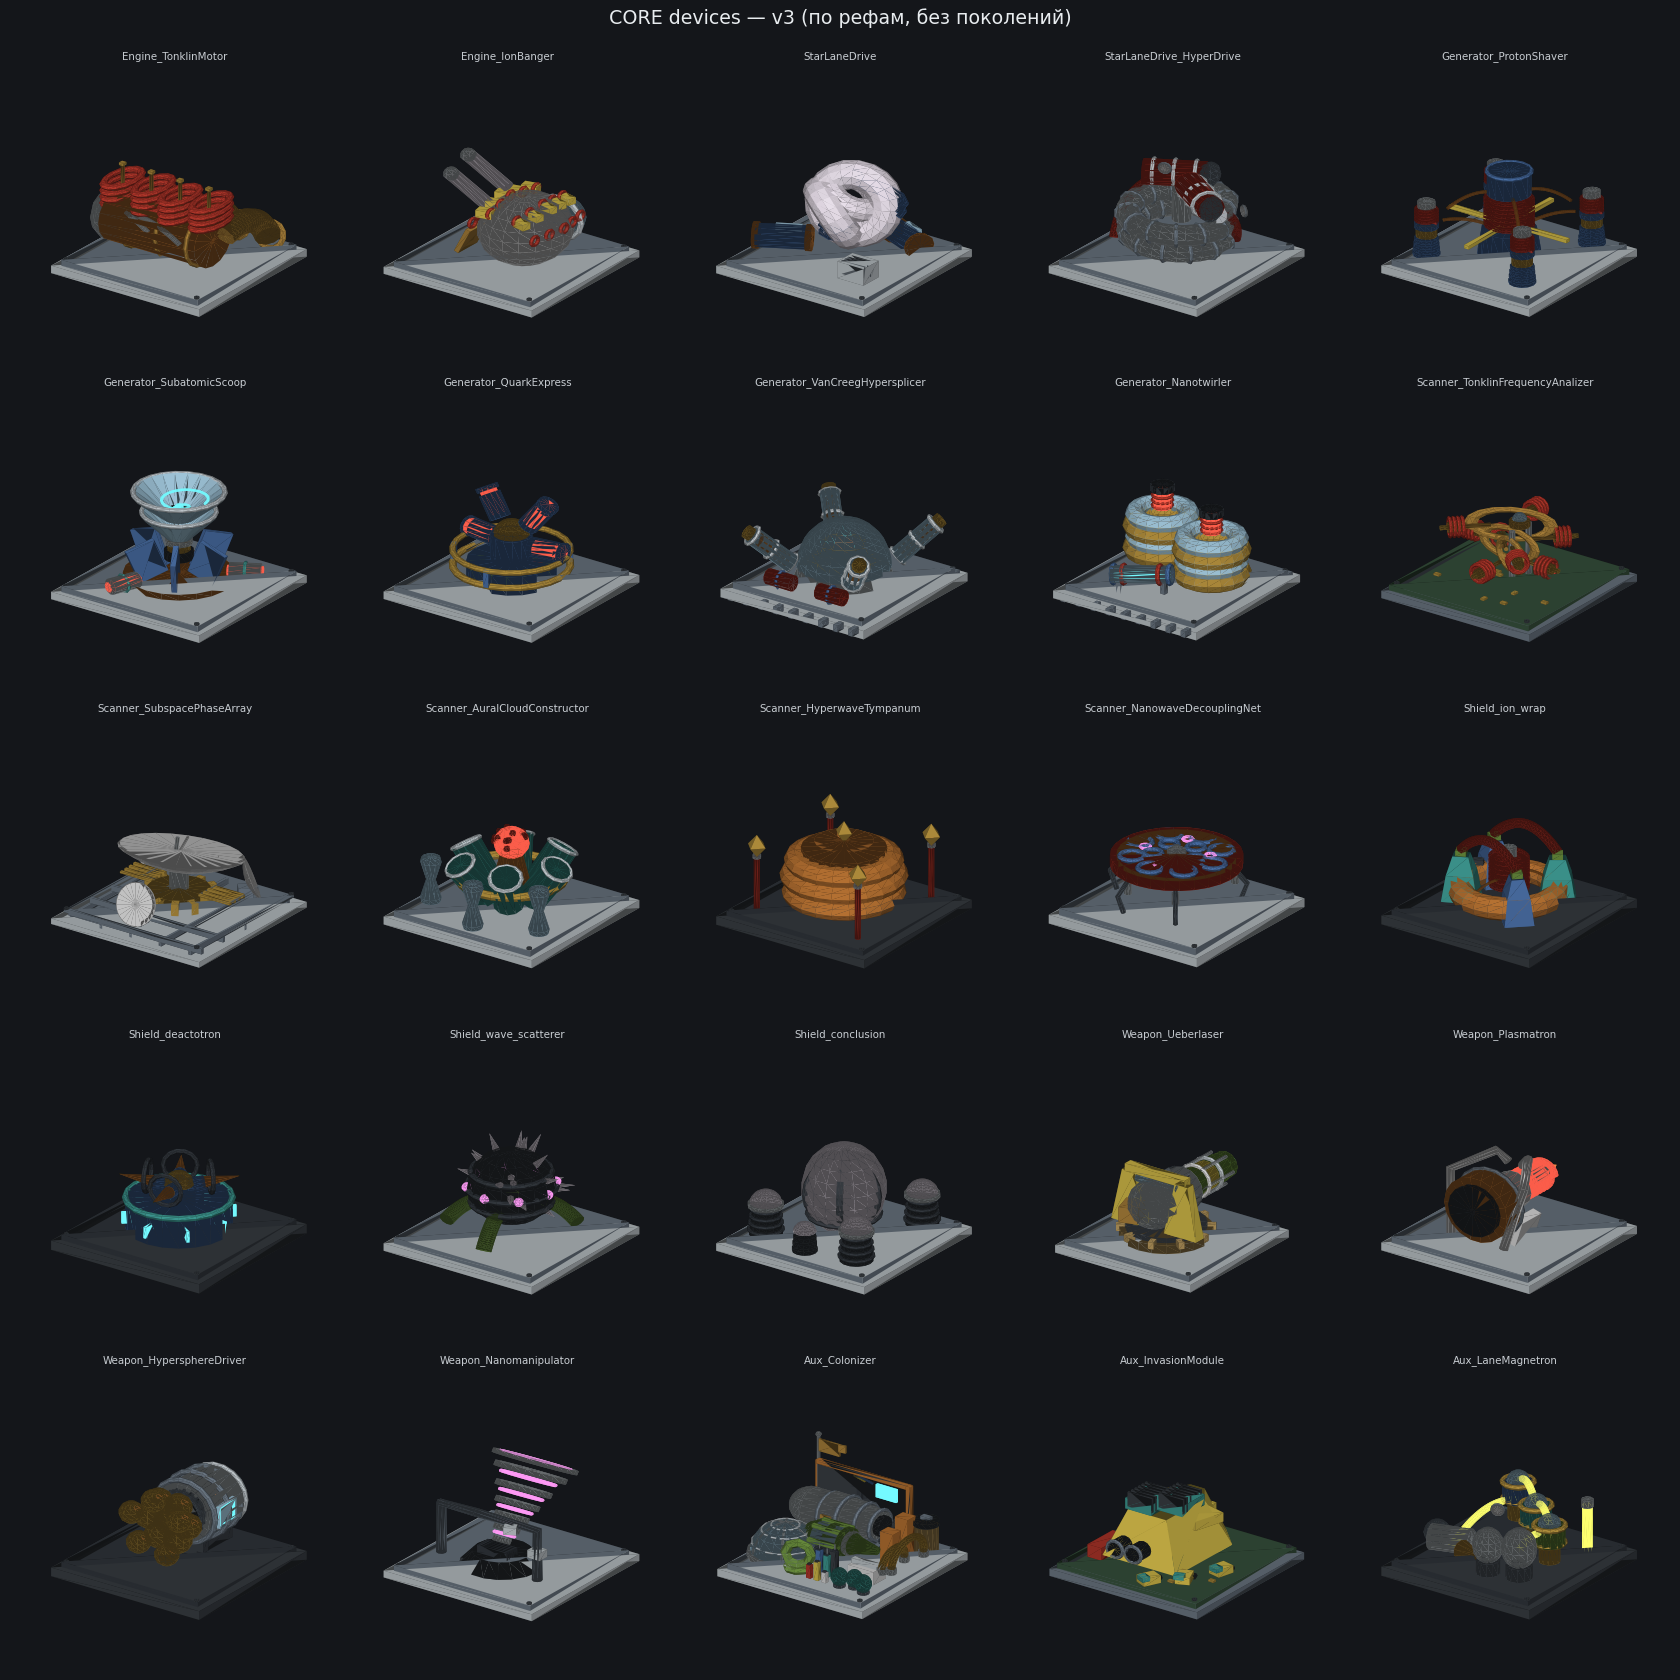
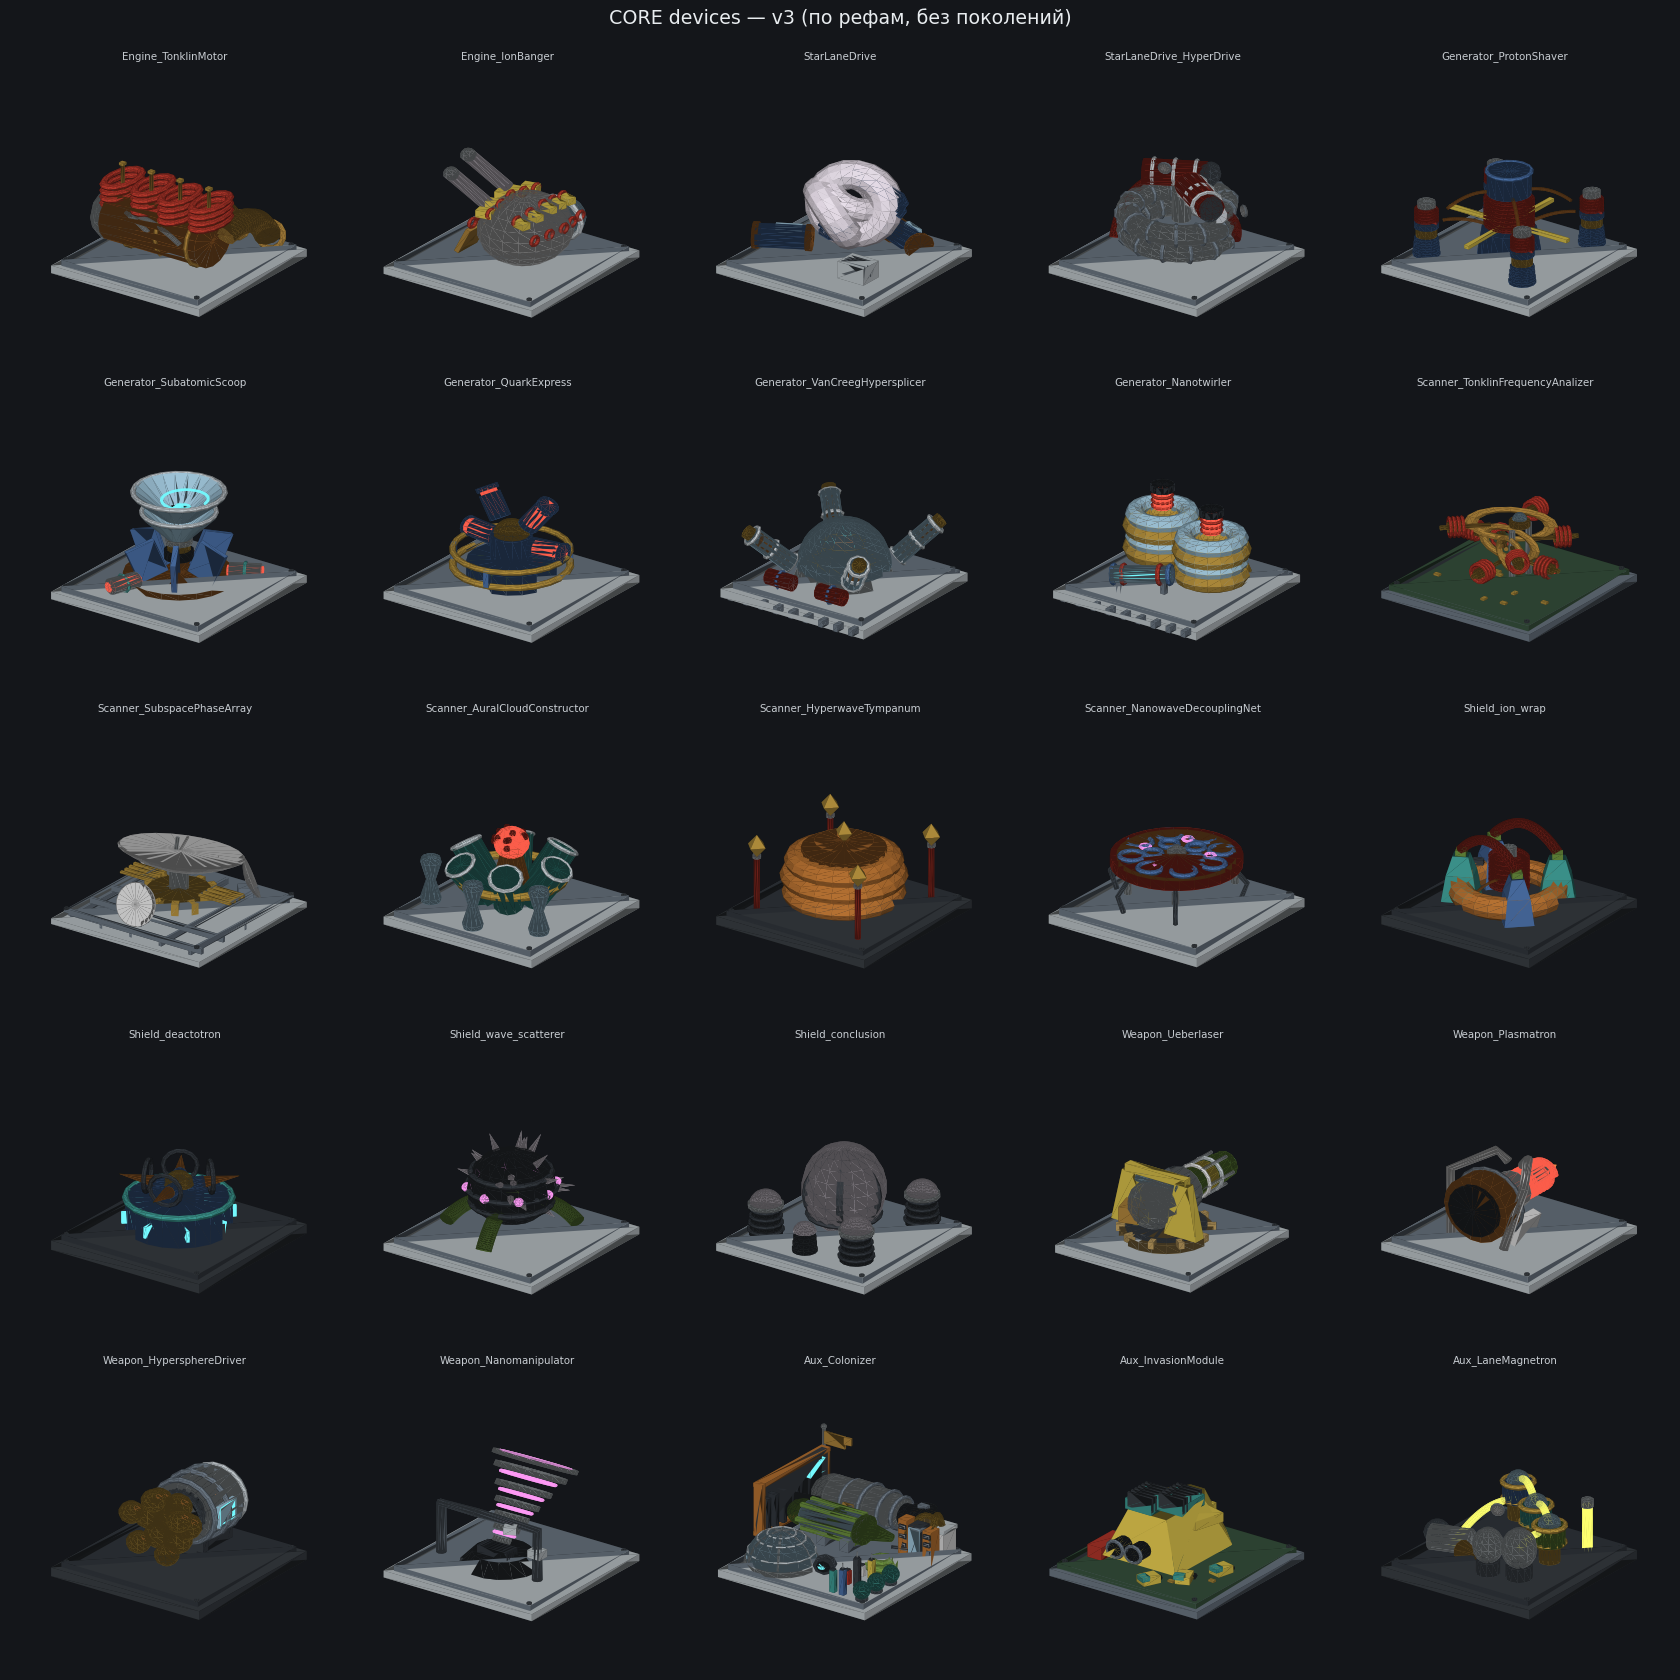
Colonizer: полная перекомпоновка по граням подложки
По детальным замечаниям ревью (грани a/b/c/d плиты):
- panel-a перенесена на грань d (была вдоль c), удлинена и переориентирована
  вертикально; drum-a и engine-a теперь оба торцом упираются в её лицевую
  сторону, ориентация обоих агрегатов не менялась
- drum-a: бок вплотную к грани c (было в глубине сцены)
- engine-a: остаётся параллелен drum-a, бок примыкает к drum-a; секция-клетка
  удлинена для более выразительного силуэта
- dome-a: максимально сдвинут к грани a (почти впритык к краю)
- gate-a: следует за dome-a
- tank-a: у второго (правого) торца drum-a
- rack-a/шкаф-с-полками/rack-b: компактная группа вдоль оси a (ранее
  расчёт неверно уводил её за грань b — плита ограничена ±0.85, группа
  вылезала до x=0.91; пересчитана компактно, с короткими кабелями-
  перемычками к tank-a и торцу engine-a вместо жёсткого стыка (иначе
  сумма радиусов drum/engine делает группу неизбежно диагональной)
- clamp-a: перенесён на грань b рядом с tank-a, переведён из "лежит
  плашмя" в "стоит на длинном ребре" (box переориентирован)
- hose-a/hose-b: выходят из clamp-a и огибают rack-группу дугой сверху
- egg-a/b/c: угол граней a-b, далее вдоль грани b
- mini-a..f: второй ряд за яйцами вдоль грани b (интерьер)
- ring-a: теперь лежит плашмя (было на ребре), сдвинут за ряд mini
- флаг: угол граней c-d (следует за новым положением panel-a)

Также исправлен побочный овершут: барабан drum-a торцевым кольцом
(радиус 0.23) чуть выступал за грань c — скорректирован отступ.

Changed region(s): [[0.4333, 0.8357, 0.5881, 0.9595]]

diff --git a/docs/asset-bible/tools/device_recipes_core.py b/docs/asset-bible/tools/device_recipes_core.py
@@ -1016,146 +1016,241 @@ def weapon_nanomanipulator(seed=0):
 # ================================================================== AUX
 
 def aux_colonizer(seed=0):
-    """Колонизатор-диорама (реф Aux_Colonizer). Два параллельных агрегата
-    вдоль грани плиты (ось X): зелёная машина с клеткой и соплом + отдельный
-    серебристый сегментный барабан за ней; сзади панель-радиатор в медной
-    раме; справа стойки-серверы, бак и белый зажим COLO-LINEY с арками
-    золотых рукавов; слева геокупол со шлюзом; спереди упорядоченный ряд
-    мини-приборов, кольцо-«гайка» и три яйца-бака; флаг."""
+    """Колонизатор-диорама (реф Aux_Colonizer), скомпонована по грани плиты:
+    panel-a вдоль грани d; drum-a и engine-a — параллельные агрегаты вдоль
+    оси X, торцами упёртые в panel-a, drum-a боком у грани c, engine-a
+    боком у drum-a; dome-a у грани a; tank-a у второго торца drum-a;
+    rack-a/шкаф/rack-b — группа вдоль оси a между tank-a и торцом engine-a;
+    clamp-a стоит на ребре вдоль грани b рядом с tank-a, из него выходят
+    hose-a/hose-b, огибающие rack-группу; egg-a/b/c в углу a-b вдоль грани
+    b, mini-a..f вторым рядом за ними, ring-a (лежит плашмя) — следом за
+    mini-рядом; флаг в углу c-d."""
     P = []
     Z = PLATE_TOP
+    half = 0.85
 
     def xcyl(vf, x, y, z, tag):
         P.append(_p(tf(tf(vf, ry=PI / 2), t=(x, y, z)), tag))
 
-    # --- зелёная машина: ось X, нос (конус) в +X
-    gy, gz = -0.12, Z + 0.26
-    xcyl(cyl(0.09, 0.2, 12, r2=0.045), 0.4, gy, gz, 'green')
-    xcyl(cyl(0.125, 0.09, 12, r2=0.085), 0.26, gy, gz, 'green')
-    xcyl(cyl(0.14, 0.05, 12), 0.19, gy, gz, 'silver')
-    # стеклянная секция в зелёной клетке
-    xcyl(cyl(0.15, 0.34, 14), -0.02, gy, gz, 'glass')
-    xcyl(cyl(0.095, 0.3, 10), -0.02, gy, gz, 'detail')
-    for xx in (-0.18, -0.02, 0.14):
-        xcyl(cyl(0.17, 0.055, 14), xx, gy, gz, 'green')
-    for roll in np.linspace(0, 2 * PI, 6, endpoint=False):
-        P.append(_p(tf(box(0.36, 0.042, 0.042),
-                       t=(-0.02, gy + 0.163 * math.cos(roll),
-                          gz + 0.163 * math.sin(roll))), 'green'))
-    P.append(_p(tf(tf(dome(0.15, 12, 6), ry=-PI / 2), t=(-0.2, gy, gz)),
-                'green'))
-    # ложементы
-    for xx in (-0.12, 0.14):
-        P.append(_p(tf(box(0.1, 0.26, 0.14), t=(xx, gy, Z + 0.07)), 'plat'))
-
-    # --- серебристый сегментный барабан: параллельно, за зелёной машиной
-    sy, sz = 0.26, Z + 0.34
-    P.append(_p(tf(tf(dome(0.21, 14, 7), ry=-PI / 2), t=(-0.56, sy, sz)),
-                'silver'))
-    for k, (xx, rr, ww) in enumerate(((-0.44, 0.21, 0.2), (-0.22, 0.23, 0.2),
-                                      (0.0, 0.21, 0.18), (0.18, 0.18, 0.14))):
-        xcyl(cyl(rr, ww, 16), xx, sy, sz, 'silver')
-        xcyl(torus(rr, 0.02, 16, 6), xx + ww / 2, sy, sz, 'plat')
-    xcyl(cyl(0.12, 0.06, 12), 0.28, sy, sz, 'graph')
-    # панелька-люк на барабане
-    P.append(_p(tf(box(0.12, 0.02, 0.1), t=(-0.22, sy - 0.23, sz + 0.02)),
-                'coil2'))
-    for xx in (-0.4, 0.04):
-        P.append(_p(tf(box(0.12, 0.3, 0.18), t=(xx, sy, Z + 0.09)), 'plat'))
-
-    # --- тёмная панель-радиатор в медной раме (сзади, вдоль X)
-    px, py = -0.15, 0.56
-    P.append(_p(tf(box(1.05, 0.07, 0.62), t=(px, py, Z + 0.42)), 'graph'))
+    # --- panel-a: вдоль грани d (левая грань, тянется по Y)
+    panel_thick = 0.07
+    px = -half + panel_thick / 2          # -0.815
+    panel_inner_x = -half + panel_thick   # -0.78 (лицевая сторона панели)
+    py = 0.28
+    plen = 1.05
+    P.append(_p(tf(box(panel_thick, plen, 0.62), t=(px, py, Z + 0.42)),
+                'graph'))
     for dz in (0.72, 0.12):
-        P.append(_p(tf(box(1.09, 0.05, 0.05), t=(px, py, Z + dz)), 'copper'))
+        P.append(_p(tf(box(0.1, plen + 0.04, 0.05), t=(px, py, Z + dz)),
+                    'copper'))
     for sgn in (-1, 1):
-        P.append(_p(tf(box(0.05, 0.05, 0.64), t=(px + sgn * 0.53, py,
-                                                 Z + 0.42)), 'copper'))
+        P.append(_p(tf(box(0.1, 0.05, 0.64),
+                       t=(px, py + sgn * (plen / 2 - 0.01), Z + 0.42)),
+                    'copper'))
     for k in range(8):
-        P.append(_p(tf(box(0.05, 0.09, 0.4),
-                       t=(px - 0.42 + k * 0.075, py + 0.02, Z + 0.34)),
-                    'dark'))
-    P.append(_p(tf(box(0.24, 0.03, 0.16), t=(px + 0.3, py - 0.05, Z + 0.6)),
-                'bglow'))
+        P.append(_p(tf(box(0.09, 0.05, 0.4),
+                       t=(px + 0.02, py - plen / 2 + 0.08 + k * (plen - 0.16)
+                          / 7, Z + 0.34)), 'dark'))
+    P.append(_p(tf(box(0.05, 0.24, 0.16),
+                   t=(px + 0.06, py + plen / 2 - 0.22, Z + 0.6)), 'bglow'))
     for k, tag in enumerate(('teal', 'yellow', 'blue')):
-        P.append(_p(arc_pipe((px - 0.3 + k * 0.09, py - 0.04, Z + 0.7),
-                             (px - 0.05 + k * 0.09, py - 0.04, Z + 0.66),
-                             (0, -0.03, 0.05), 0.012), tag))
+        yy = py + plen / 2 - 0.3 + k * 0.09
+        P.append(_p(arc_pipe((px, yy, Z + 0.7), (px, yy, Z + 0.66),
+                             (0.05, 0, 0.05), 0.012), tag))
 
-    # --- геокупол со шлюзом (слева-спереди)
-    dx, dy = -0.45, -0.3
-    P.append(_p(tf(cyl(0.37, 0.06, 18), t=(dx, dy, Z + 0.03)), 'silver'))
-    g, fr = _geodome_dev(0.34)
-    P.append(_p(tf(g, t=(dx, dy, Z + 0.06)), 'glass'))
-    P.append(_p(tf(fr, t=(dx, dy, Z + 0.06)), 'silver'))
-    # восьмигранный модуль-шлюз правее купола (как в рефе)
-    P.append(_p(tf(tf(cyl(0.11, 0.08, 8), rx=PI / 2),
-                   t=(-0.02, -0.3, Z + 0.14), rz=PI / 8), 'plat'))
-    P.append(_p(tf(tf(cyl(0.07, 0.1, 8), rx=PI / 2),
-                   t=(-0.02, -0.31, Z + 0.14), rz=PI / 8), 'graph'))
-    P.append(_p(tf(tf(cyl(0.04, 0.03, 8), rx=PI / 2),
-                   t=(-0.02, -0.35, Z + 0.14), rz=PI / 8), 'bglow'))
+    # --- drum-a: параллельно оси X, торцом (dome) к panel-a, боком к грани c
+    drum_r = 0.21
+    drum_y = half - 0.23 - 0.02             # 0.60 — у грани c (с учётом макс. радиуса торцевых колец 0.23)
+    drum_dome_x = panel_inner_x + drum_r   # торец у панели
+    # исходные относительные смещения (от dome-центра исходного рецепта)
+    drum_rel = (0.0, 0.12, 0.34, 0.56, 0.72, 0.75)
+    d0 = drum_dome_x
+    P.append(_p(tf(tf(dome(0.21, 14, 7), ry=-PI / 2),
+                   t=(d0 + drum_rel[0], drum_y, Z + 0.34)), 'silver'))
+    drum_segs = ((0.12, 0.21, 0.2), (0.34, 0.23, 0.2), (0.56, 0.21, 0.18),
+                (0.72, 0.18, 0.14))
+    for (rel, rr, ww) in drum_segs:
+        xcyl(cyl(rr, ww, 16), d0 + rel, drum_y, Z + 0.34, 'silver')
+        xcyl(torus(rr, 0.02, 16, 6), d0 + rel + ww / 2, drum_y, Z + 0.34,
+             'plat')
+    drum_end_x = d0 + 0.72 + 0.14 / 2      # правый торец барабана
+    xcyl(cyl(0.12, 0.06, 12), drum_end_x + 0.06, drum_y, Z + 0.34, 'graph')
+    drum_end_x += 0.12
+    # панелька-люк на барабане
+    P.append(_p(tf(box(0.12, 0.02, 0.1),
+                   t=(d0 + 0.34, drum_y - 0.23, Z + 0.36)), 'coil2'))
+    for rel in (0.0, 0.56):
+        P.append(_p(tf(box(0.12, 0.3, 0.18),
+                       t=(d0 + rel, drum_y, Z + 0.09)), 'plat'))
 
-    # --- стойки-серверы (справа, вдоль правой грани) + бак
-    for (bx, by, hh) in ((0.52, 0.3, 0.52), (0.52, 0.06, 0.44)):
-        P.append(_p(tf(box(0.15, 0.13, hh), t=(bx, by, Z + hh / 2)), 'copper'))
-        for j in range(4):
-            P.append(_p(tf(box(0.11, 0.02, 0.05),
-                           t=(bx - 0.075, by, Z + 0.08 + j * hh / 4.5)),
-                        'dark'))
-            P.append(_p(tf(box(0.1, 0.015, 0.03),
-                           t=(bx - 0.078, by, Z + 0.08 + j * hh / 4.5)),
-                        'white'))
-    # бак с карбоновой крышкой
-    P.append(_p(tf(cyl(0.12, 0.42, 14), t=(0.68, 0.42, Z + 0.21)), 'wood'))
-    P.append(_p(tf(cyl(0.13, 0.06, 14), t=(0.68, 0.42, Z + 0.45)), 'graph'))
-    P.append(_p(tf(box(0.1, 0.06, 0.04), t=(0.68, 0.42, Z + 0.5)), 'plat'))
+    # --- engine-a: параллельно, торцом (dome) к panel-a, боком к drum-a
+    engine_dome_r = 0.15
+    engine_r = 0.17
+    engine_y = drum_y - drum_r - engine_r - 0.02   # 0.22 — сторона к drum
+    engine_dome_x = panel_inner_x + engine_dome_r
+    e0 = engine_dome_x
+    # исходные относительные смещения от dome-центра (было xx=-0.2)
+    def erel(orig_xx):
+        return orig_xx - (-0.2)
 
-    # --- белый зажим COLO-LINEY и арки рукавов (в плоскости правой грани)
-    P.append(_p(tf(box(0.3, 0.2, 0.16), t=(0.52, -0.32, Z + 0.1)), 'white'))
-    P.append(_p(tf(box(0.32, 0.06, 0.06), t=(0.52, -0.32, Z + 0.2)),
+    P.append(_p(tf(tf(dome(0.15, 12, 6), ry=-PI / 2),
+                   t=(e0, engine_y, Z + 0.26)), 'green'))
+    # стеклянная секция в зелёной клетке, удлинена для симметрии с drum-a
+    cage_len = 0.62
+    xcyl(cyl(0.15, cage_len, 14), e0 + 0.05 + cage_len / 2, engine_y,
+         Z + 0.26, 'glass')
+    xcyl(cyl(0.095, cage_len - 0.04, 10), e0 + 0.05 + cage_len / 2, engine_y,
+         Z + 0.26, 'detail')
+    for f in (0.06, 0.36, 0.66):
+        xcyl(cyl(0.17, 0.055, 14), e0 + 0.05 + f, engine_y, Z + 0.26,
+             'green')
+    for roll in np.linspace(0, 2 * PI, 6, endpoint=False):
+        P.append(_p(tf(box(cage_len + 0.02, 0.042, 0.042),
+                       t=(e0 + 0.05 + cage_len / 2,
+                          engine_y + 0.163 * math.cos(roll),
+                          Z + 0.26 + 0.163 * math.sin(roll))), 'green'))
+    cage_end_x = e0 + 0.05 + cage_len
+    # серебристый воротник + нос
+    xcyl(cyl(0.14, 0.05, 12), cage_end_x + 0.025, engine_y, Z + 0.26,
+         'silver')
+    xcyl(cyl(0.125, 0.09, 12, r2=0.085), cage_end_x + 0.115, engine_y,
+         Z + 0.26, 'green')
+    nose_c = cage_end_x + 0.16 + 0.1
+    xcyl(cyl(0.09, 0.2, 12, r2=0.045), nose_c, engine_y, Z + 0.26, 'green')
+    engine_end_x = nose_c + 0.1            # кончик носа
+    # ложементы
+    for xx in (e0 + 0.3, cage_end_x - 0.1):
+        P.append(_p(tf(box(0.1, 0.26, 0.14), t=(xx, engine_y, Z + 0.07)),
+                    'plat'))
+
+    # --- геокупол со шлюзом: максимально к грани a
+    dome_r = 0.34
+    ddx, ddy = -0.38, -half + dome_r + 0.03   # к грани a
+    P.append(_p(tf(cyl(dome_r * 1.05, 0.06, 18), t=(ddx, ddy, Z + 0.03)),
                 'silver'))
-    for (hx, cy, R, z0) in ((0.82, -0.08, 0.26, 0.24), (0.68, -0.12, 0.18,
-                                                        0.18)):
+    g, fr = _geodome_dev(dome_r)
+    P.append(_p(tf(g, t=(ddx, ddy, Z + 0.06)), 'glass'))
+    P.append(_p(tf(fr, t=(ddx, ddy, Z + 0.06)), 'silver'))
+    # --- gate-a: восьмигранный модуль-шлюз правее купола
+    gx, gy_ = ddx + dome_r + 0.16, ddy
+    P.append(_p(tf(tf(cyl(0.11, 0.08, 8), rx=PI / 2), t=(gx, gy_, Z + 0.14),
+                   rz=PI / 8), 'plat'))
+    P.append(_p(tf(tf(cyl(0.07, 0.1, 8), rx=PI / 2),
+                   t=(gx, gy_ - 0.01, Z + 0.14), rz=PI / 8), 'graph'))
+    P.append(_p(tf(tf(cyl(0.04, 0.03, 8), rx=PI / 2),
+                   t=(gx, gy_ - 0.05, Z + 0.14), rz=PI / 8), 'bglow'))
+
+    # --- tank-a: у второго (правого) торца drum-a
+    tank_r = 0.12
+    tank_x = drum_end_x + tank_r + 0.02
+    tank_y = drum_y
+    P.append(_p(tf(cyl(tank_r, 0.42, 14), t=(tank_x, tank_y, Z + 0.21)),
+                'wood'))
+    P.append(_p(tf(cyl(tank_r + 0.01, 0.06, 14), t=(tank_x, tank_y, Z + 0.45)),
+                'graph'))
+    P.append(_p(tf(box(0.1, 0.06, 0.04), t=(tank_x, tank_y, Z + 0.5)),
+                'plat'))
+
+    # --- rack-a / шкаф / rack-b: компактная группа, оси a (X), у грани b;
+    # связана короткими кабелями с tank-a и торцом engine-a
+    rack_hw, cab_hw = 0.05, 0.07
+    rack_row_y = engine_y + 0.1
+    rack_a_x = 0.5
+    cab_x = rack_a_x + rack_hw + cab_hw + 0.02
+    rack_b_x = cab_x + cab_hw + rack_hw + 0.02   # <= half(0.85) - rack_hw
+
+    def rack(cx, cy, hh):
+        P.append(_p(tf(box(rack_hw * 2, 0.13, hh), t=(cx, cy, Z + hh / 2)),
+                    'copper'))
+        for j in range(4):
+            P.append(_p(tf(box(rack_hw * 1.5, 0.02, 0.05),
+                           t=(cx - rack_hw * 0.05, cy - 0.065,
+                              Z + 0.08 + j * hh / 4.5)), 'dark'))
+            P.append(_p(tf(box(rack_hw * 1.3, 0.015, 0.03),
+                           t=(cx - rack_hw * 0.08, cy - 0.068,
+                              Z + 0.08 + j * hh / 4.5)), 'white'))
+
+    rack(rack_a_x, rack_row_y, 0.5)
+    rack(rack_b_x, rack_row_y, 0.44)
+    # шкаф с полками за матовым (полупрозрачным) стеклом
+    cab_h = 0.46
+    P.append(_p(tf(box(cab_hw * 2, 0.15, cab_h), t=(cab_x, rack_row_y, Z +
+                                                     cab_h / 2)), 'dark'))
+    P.append(_p(tf(box(cab_hw * 1.8, 0.02, cab_h * 0.9),
+                   t=(cab_x, rack_row_y - 0.075, Z + cab_h / 2)), 'glass'))
+    for j in range(3):
+        P.append(_p(tf(box(cab_hw * 1.6, 0.1, 0.02),
+                       t=(cab_x, rack_row_y, Z + 0.1 + j * cab_h / 3)),
+                    'plat'))
+    # короткие кабели-перемычки: tank-a -> rack-a, торец engine-a -> rack-b
+    P.append(_p(tube(np.array([(tank_x + tank_r * 0.6, tank_y, Z + 0.2),
+                               (rack_a_x - rack_hw, rack_row_y, Z + 0.2)]),
+                     0.022, 6), 'plat'))
+    P.append(_p(tube(np.array([(engine_end_x, engine_y, Z + 0.15),
+                               (rack_b_x - rack_hw, rack_row_y, Z + 0.15)]),
+                     0.022, 6), 'plat'))
+
+    # --- clamp-a: вдоль грани b, у tank-a, стоит на длинном ребре
+    clamp_x = tank_x + tank_r + 0.1
+    clamp_y = tank_y
+    P.append(_p(tf(box(0.16, 0.2, 0.3), t=(clamp_x, clamp_y, Z + 0.15)),
+                'white'))
+    P.append(_p(tf(box(0.18, 0.22, 0.05), t=(clamp_x, clamp_y, Z + 0.31)),
+                'silver'))
+
+    # --- hose-a/hose-b: выходят из clamp-a одним торцом, огибают сверху
+    # rack-группу (rack-a и rack-b)
+    for k, (target_x, ry) in enumerate(((rack_a_x, rack_row_y),
+                                        (rack_b_x, rack_row_y))):
+        R = 0.16 + 0.04 * k
         ts = np.linspace(0, PI, 14)
-        path = np.array([(hx + 0.03 * math.sin(t), cy - R * math.cos(t),
-                          Z + z0 + R * 1.05 * math.sin(t)) for t in ts])
-        P.append(_p(tube(path, 0.038, 9), 'gold'))
+        path = np.array([
+            (clamp_x - t / PI * (clamp_x - target_x),
+             clamp_y - (clamp_y - ry) * (t / PI),
+             Z + 0.3 + R * 1.2 * math.sin(t))
+            for t in ts])
+        P.append(_p(tube(path, 0.032, 9), 'gold'))
         for pt in (path[0], path[-1]):
-            P.append(_p(tf(cyl(0.052, 0.07, 9),
-                           t=(pt[0], pt[1], pt[2] - 0.03)), 'silver'))
+            P.append(_p(tf(cyl(0.042, 0.06, 9),
+                           t=(pt[0], pt[1], pt[2] - 0.025)), 'silver'))
 
-    # --- зелёное кольцо-«гайка» (правее купола, как в рефе)
-    P.append(_p(tf(torus(0.11, 0.04, 8, 6), t=(-0.14, -0.52, Z + 0.04),
-                   rz=PI / 8), 'green'))
-    P.append(_p(tf(torus(0.13, 0.05, 8, 6), t=(-0.14, -0.52, Z + 0.2),
-                   rx=PI / 2.15, rz=0.3), 'green'))
 
-    # --- упорядоченный ряд мини-приборов (две шеренги вдоль X)
-    back_row = ((0.08, 'blue', 0.3), (0.17, 'teal', 0.26),
-                (0.26, 'graph', 0.34))
-    front_row = ((0.05, 'coil', 0.16), (0.14, 'yellow', 0.22),
-                 (0.23, 'white', 0.12))
-    for (mx, tag, hh) in back_row:
-        P.append(_p(tf(box(0.055, 0.05, hh), t=(mx, -0.48, Z + hh / 2)), tag))
-        P.append(_p(tf(box(0.04, 0.035, 0.02),
-                       t=(mx, -0.48, Z + hh + 0.01)), 'dark'))
-        P.append(_p(tf(cyl(0.005, 0.07, 5), t=(mx, -0.48, Z + hh + 0.05)),
-                    'silver'))
-    for (mx, tag, hh) in front_row:
-        P.append(_p(tf(box(0.05, 0.045, hh), t=(mx, -0.6, Z + hh / 2)), tag))
-        P.append(_p(tf(box(0.035, 0.03, 0.015),
-                       t=(mx, -0.6, Z + hh + 0.008)), 'dark'))
-
-    # --- три яйца-бака в ряд вдоль X (спереди-справа)
-    for k, ex in enumerate((0.4, 0.54, 0.68)):
-        ey = -0.6 + 0.05 * (k % 2)
+    # --- egg-a/b/c: угол граней a-b, далее вдоль грани b
+    egg_r = 0.085
+    egg_x = half - egg_r - 0.04
+    egg_y0 = -half + egg_r + 0.04
+    for k in range(3):
+        ex, ey = egg_x, egg_y0 + k * (2 * egg_r + 0.06)
         P.append(_p(tf(cyl(0.06, 0.03, 10), t=(ex, ey, Z + 0.015)), 'plat'))
-        P.append(_p(tf(sphere(0.085, 10, 8), t=(ex, ey, Z + 0.12),
+        P.append(_p(tf(sphere(egg_r, 10, 8), t=(ex, ey, Z + 0.12),
                        s=(1, 1, 1.25)), 'teal'))
 
-    # --- флагшток с латунным рваным флагом (задний левый угол)
-    fx, fy = -0.68, 0.55
+    # --- mini-a..f: следующий ряд за яйцами, вдоль грани b (интерьер)
+    mini_x0 = egg_x - 0.22
+    mini_defs = (('blue', 0.3), ('teal', 0.26), ('graph', 0.34),
+                ('coil', 0.16), ('yellow', 0.22), ('white', 0.12))
+    for k, (tag, hh) in enumerate(mini_defs):
+        col = k % 2
+        row = k // 2
+        mx = mini_x0 - col * 0.11
+        my = egg_y0 + row * (2 * egg_r + 0.06)
+        P.append(_p(tf(box(0.055, 0.05, hh), t=(mx, my, Z + hh / 2)), tag))
+        P.append(_p(tf(box(0.04, 0.035, 0.02), t=(mx, my, Z + hh + 0.01)),
+                    'dark'))
+        if col == 0:
+            P.append(_p(tf(cyl(0.005, 0.07, 5), t=(mx, my, Z + hh + 0.05)),
+                        'silver'))
+
+    # --- ring-a: лежит плашмя, следом за рядом mini вдоль грани b
+    ring_y = egg_y0 + 3 * (2 * egg_r + 0.06)
+    ring_x = mini_x0 - 0.05
+    P.append(_p(tf(torus(0.13, 0.05, 8, 6), t=(ring_x, ring_y, Z + 0.05)),
+                'green'))
+    P.append(_p(tf(torus(0.09, 0.035, 8, 6), t=(ring_x, ring_y, Z + 0.11)),
+                'green'))
+
+    # --- флагшток с латунным рваным флагом (угол граней c-d)
+    fx, fy = -half + 0.1, half - 0.15
     P.append(_p(tf(cyl(0.016, 1.05, 8), t=(fx, fy, Z + 0.52)), 'silver'))
     P.append(_p(tf(sphere(0.03, 8, 6), t=(fx, fy, Z + 1.06)), 'silver'))
     P.append(_p(tf(box(0.24, 0.02, 0.15), t=(fx + 0.13, fy, Z + 0.93)),